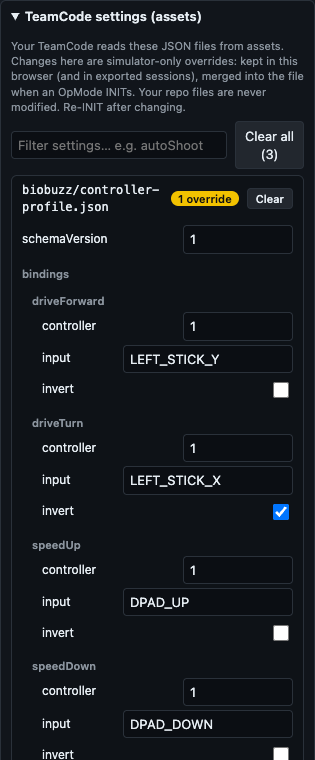
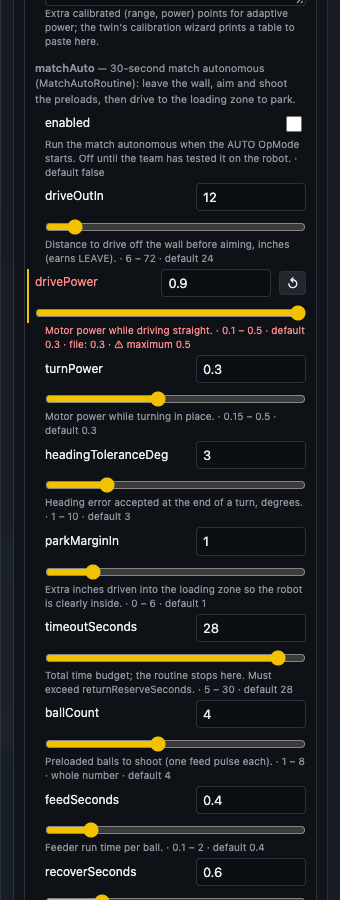
TeamCode settings: JSON Schema sidecars give help text, dropdowns, sliders, defaults and validation; search covers descriptions
- src/runtime/assetSchema.ts: foo.schema.json next to foo.json (draft-07 subset: properties/items/additionalProperties/
  patternProperties, type, enum, const, minimum/maximum/exclusive*, multipleOf, default, description, readOnly,
  deprecated); nodeAt, validate, validateAll, constraintText, searchText; 4 tests
- panel: enum -> select (current value kept if not allowed), min/max -> slider + exact box on its own line (integer
  snaps), description + constraints + file value + problem as the help line, invalid rows and a per-file badge
  (schema ✓ / N invalid / no schema), schema files hidden from the editable list, filter matches descriptions and
  enum values
- agent API: GET /api/schema (per-file schema presence and violations of the merged values) and ?file= for one
- docs: README section, runtime README, skill 4a (keep the schema in step with the parsing Java); gallery screenshot
- the team repo gets robot-profile.schema.json and controller-profile.schema.json seeded from the ranges and enums
  its parsers enforce (TrackingProfile, MatchAutoProfile, AutoProfile, ControllerProfile, RobotDashboard)

Changed region(s): [[0.0286, 0.0, 0.9714, 1.0]]

diff --git a/src/ui/panel.ts b/src/ui/panel.ts
@@ -10,6 +10,7 @@ import { START_LABELS, defaultStarts, startPose, type StartKey } from "../sim/st
 import { twinKnobs } from "../runtime/bindings";
 import type { Recorder } from "../runtime/recorder";
 import { applyOverrides, downloadText, exportChangedAssets, guessAssetFor, parsePastedSettings } from "../runtime/assetExport";
+import { constraintText, hasRange, isInteger, isNumeric, isSchemaFile, nodeAt, nullable, schemaFor, searchText, validate, validateAll } from "../runtime/assetSchema";
 import { calibrationRows, type CalForm, type SimImpactLike } from "./calibration";
 import type { FitResult } from "../ballistics/calibration";
 import { MOTOR_ROLES, SERVO_ROLES, defaultHardwareConfig, camelsHumpHardwareConfig, type DeviceKind } from "../runtime/hardwareConfig";
@@ -310,7 +311,7 @@ export class Panel {
     if (link?.connected && link.assets.length) {
       const total = Object.values(st.assetOverrides).reduce((n, o) => n + Object.keys(o).length, 0);
       const box = el("div", { class: "assets full" });
-      const filter = el("input", { type: "text", placeholder: "Filter settings… e.g. autoShoot", value: this.assetFilter }) as HTMLInputElement;
+      const filter = el("input", { type: "text", placeholder: "Filter settings by name, description or value… e.g. autoShoot, start square, LEFT", value: this.assetFilter }) as HTMLInputElement;
       filter.oninput = () => { this.assetFilter = filter.value; renderFiles(); };
       const list = el("div", {});
       const boundCount = Object.values(link.bound.overrides).reduce((n, o) => n + Object.keys(o).length, 0);
@@ -363,24 +364,27 @@ export class Panel {
         list.replaceChildren();
         const q = this.assetFilter.trim().toLowerCase();
         for (const file of link.assets) {
+          if (isSchemaFile(file.path)) continue; // sidecars describe their asset; they are not settings
           let json: unknown;
           try { json = JSON.parse(file.text); } catch { list.append(el("div", { class: "note" }, `${file.path}: not valid JSON`)); continue; }
+          const schema = schemaFor(link.assets, file.path);
           const ov = st.assetOverrides[file.path] ?? {};
           const n = Object.keys(ov).length;
           const body = el("div", { class: "abody" });
           let shown = 0;
           // walk the tree: objects become indented group headings, everything else a row
           const walk = (v: unknown, key: string, name: string, depth: number) => {
+            const node = nodeAt(schema, key);
             if (v && typeof v === "object" && !Array.isArray(v)) {
               const entries = Object.entries(v as Record<string, unknown>);
-              const head = key ? el("div", { class: "agroup", style: `padding-left:${depth * 10}px` }, name) : null;
+              const head = key ? el("div", { class: "agroup", style: `padding-left:${depth * 10}px`, title: node?.description ?? "" }, name, node?.description ? el("span", { class: "adesc" }, ` — ${node.description}`) : "") : null;
               const before = shown;
               if (head) body.append(head);
               for (const [k, x] of entries) walk(x, key ? `${key}.${k}` : k, k, key ? depth + 1 : depth);
               if (head && shown === before) head.remove(); // nothing matched the filter in this group
               return;
             }
-            if (q && !key.toLowerCase().includes(q)) return;
+            if (q && !searchText(key, node).includes(q)) return;
             shown++;
             const boundSrc = link.bound.sources[file.path]?.[key];
             if (boundSrc !== undefined) {
@@ -391,14 +395,33 @@ export class Panel {
             }
             const has = key in ov;
             const value = has ? ov[key] : v;
-            const label = el("label", { title: key }, name);
-            const row = el("div", { class: `arow${has ? " over" : ""}`, style: `padding-left:${depth * 10}px` }, label);
+            const problem = validate(node, value);
+            const label = el("label", { title: `${key}${node?.description ? "\n" + node.description : ""}` }, name);
+            const row = el("div", { class: `arow${has ? " over" : ""}${problem ? " invalid" : ""}`, style: `padding-left:${depth * 10}px` }, label);
             let control: HTMLElement;
-            if (typeof value === "boolean") {
-              const c = el("input", { type: "checkbox" }) as HTMLInputElement; c.checked = value; c.onchange = () => setOv(file.path, key, c.checked, v); control = c;
-            } else if (typeof value === "number" || (value === null && typeof v === "number")) {
-              const i = el("input", { type: "number", step: "any", value: value === null ? "" : String(value), placeholder: "null" }) as HTMLInputElement;
-              i.onchange = () => { const x = parseFloat(i.value); setOv(file.path, key, Number.isNaN(x) ? null : x, v); }; control = i;
+            const commit = (x: unknown) => setOv(file.path, key, x, v);
+            if (node?.enum && !(typeof value === "boolean")) {
+              // enumerated setting: a select listing the allowed values (plus the current one if it is not allowed)
+              const sel = el("select") as HTMLSelectElement;
+              const opts = [...node.enum];
+              if (!opts.some((o) => JSON.stringify(o) === JSON.stringify(value))) opts.unshift(value);
+              for (const o of opts) sel.append(el("option", { value: JSON.stringify(o), selected: JSON.stringify(o) === JSON.stringify(value) ? "" : undefined }, o === null ? "null" : typeof o === "string" ? o : JSON.stringify(o)));
+              sel.onchange = () => commit(JSON.parse(sel.value)); control = sel;
+            } else if (typeof value === "boolean") {
+              const c = el("input", { type: "checkbox" }) as HTMLInputElement; c.checked = value; c.onchange = () => commit(c.checked); control = c;
+            } else if (node && hasRange(node) && (typeof value === "number" || value === null) && isNumeric(node)) {
+              // ranged number: slider + exact box
+              const lo = node.minimum ?? node.exclusiveMinimum!, hi = node.maximum ?? node.exclusiveMaximum!;
+              const step = isInteger(node) ? 1 : node.multipleOf ?? Math.max(0.001, +((hi - lo) / 200).toPrecision(1));
+              const range = el("input", { type: "range", min: String(lo), max: String(hi), step: String(step), value: value === null ? String(lo) : String(value), class: "arange" }) as HTMLInputElement;
+              const box = el("input", { type: "number", step: isInteger(node) ? "1" : "any", value: value === null ? "" : String(value), placeholder: nullable(node) ? "null" : "", class: "anum" }) as HTMLInputElement;
+              range.oninput = () => { box.value = range.value; };
+              range.onchange = () => commit(isInteger(node) ? Math.round(+range.value) : +range.value);
+              box.onchange = () => { const x = parseFloat(box.value); commit(Number.isNaN(x) ? null : isInteger(node) ? Math.round(x) : x); };
+              control = el("div", { class: "aranged" }, range, box);
+            } else if (typeof value === "number" || (value === null && (typeof v === "number" || (node && isNumeric(node))))) {
+              const i = el("input", { type: "number", step: node && isInteger(node) ? "1" : "any", value: value === null ? "" : String(value), placeholder: "null" }) as HTMLInputElement;
+              i.onchange = () => { const x = parseFloat(i.value); commit(Number.isNaN(x) ? null : x); }; control = i;
             } else if (typeof value === "string" || value === null) {
               const i = el("input", { type: "text", value: value ?? "", placeholder: value === null ? "null — type a number, true/false or text" : "", class: "atext" }) as HTMLInputElement;
               i.onchange = () => { const t = i.value; let x: unknown = t; if (t === "") x = null; else if (t === "true" || t === "false") x = t === "true"; else if (/^-?\d+(\.\d+)?$/.test(t)) x = parseFloat(t); setOv(file.path, key, x, v); }; control = i;
@@ -410,7 +433,13 @@ export class Panel {
             row.append(control);
             if (has) row.append(el("button", { class: "reset", title: `Back to the file's value: ${fmt(v)}`, onclick: () => setOv(file.path, key, v, v) }, "↺"));
             body.append(row);
-            if (has) body.append(el("div", { class: "ahint", style: `padding-left:${depth * 10}px` }, `file: ${fmt(v)}`));
+            // help: description and constraints from the schema, the file's value when overridden, the problem if any
+            const hints: string[] = [];
+            if (node?.description) hints.push(node.description);
+            const c = constraintText(node); if (c) hints.push(c);
+            if (has) hints.push(`file: ${fmt(v)}`);
+            if (problem) hints.push(`⚠ ${problem}`);
+            if (hints.length) body.append(el("div", { class: `ahint${problem ? " bad" : ""}`, style: `padding-left:${depth * 10}px` }, hints.join(" · ")));
           };
           walk(json, "", "", 0);
           if (q && !shown) continue;
@@ -419,8 +448,11 @@ export class Panel {
           try { exported = applyOverrides(file, ov, link.bound.overrides[file.path]); } catch { /* shown as invalid above */ }
           const diff = exported?.changed.length ?? 0;
           const stop = (e: Event) => { e.preventDefault(); e.stopPropagation(); };
+          const merged = (() => { try { return JSON.parse(exported?.text ?? file.text); } catch { return json; } })();
+          const problems = validateAll(merged, schema);
           const det = el("details", { class: "afile", ...(openIt ? { open: "" } : {}) },
             el("summary", {}, el("span", { class: "name" }, file.path), n ? el("span", { class: "badge" }, `${n} override${n > 1 ? "s" : ""}`) : "",
+              schema ? el("span", { class: `badge ${problems.length ? "bad" : "ok"}`, title: problems.length ? problems.map((x) => `${x.key}: ${x.error}`).join("\n") : `${file.path.replace(/\.json$/, ".schema.json")} describes these settings` }, problems.length ? `${problems.length} invalid` : "schema ✓") : file.path.startsWith("web/") ? "" : el("span", { class: "badge quiet", title: `Add ${file.path.replace(/\.json$/, ".schema.json")} next to the asset (JSON Schema: description, enum, minimum/maximum, type) to get help text, dropdowns, sliders and validation here` }, "no schema"),
               el("button", { ...(diff ? {} : { disabled: "" }), title: diff ? `Download ${file.path} with these values written in (${exported!.changed.map((c) => c.key).join(", ")}); put it at TeamCode/src/main/assets/${file.path}` : "Matches the committed file", onclick: (e: Event) => { stop(e); if (exported) downloadText(file.path.split("/").pop()!, exported.text); } }, "Export"),
               el("button", { ...(diff ? {} : { disabled: "" }), title: "Copy the merged file to the clipboard", onclick: (e: Event) => { stop(e); if (exported) navigator.clipboard?.writeText(exported.text); } }, "Copy"),
               el("button", { ...(n ? {} : { disabled: "" }), onclick: (e: Event) => { stop(e); delete st.assetOverrides[file.path]; change("assets"); } }, "Clear")),

diff --git a/src/runtime/assetSchema.ts b/src/runtime/assetSchema.ts
@@ -1,0 +1,114 @@
+/** JSON Schema sidecars for TeamCode assets: `foo.schema.json` next to `foo.json` describes each setting (description,
+ * type, enum, minimum/maximum, integer, default) so the settings panel can show help, offer the right control and
+ * validate. A pragmatic subset of JSON Schema draft-07 is honoured: properties, items, additionalProperties,
+ * patternProperties, type, enum, const, minimum, maximum, exclusiveMinimum/Maximum, multipleOf, default, description,
+ * title, readOnly, deprecated, examples. Pure, unit-tested. */
+import type { AssetFile } from "./assetExport";
+
+export interface SchemaNode {
+  type?: string | string[];
+  description?: string;
+  title?: string;
+  enum?: unknown[];
+  const?: unknown;
+  minimum?: number; maximum?: number; exclusiveMinimum?: number; exclusiveMaximum?: number; multipleOf?: number;
+  default?: unknown;
+  examples?: unknown[];
+  readOnly?: boolean;
+  deprecated?: boolean;
+  properties?: Record<string, SchemaNode>;
+  items?: SchemaNode;
+  additionalProperties?: SchemaNode | boolean;
+  patternProperties?: Record<string, SchemaNode>;
+  [k: string]: unknown;
+}
+
+export const isSchemaFile = (path: string) => path.endsWith(".schema.json");
+export const schemaPathFor = (assetPath: string) => assetPath.replace(/\.json$/, ".schema.json");
+
+/** The parsed schema for an asset, if a sidecar exists and parses. */
+export function schemaFor(files: AssetFile[], assetPath: string): SchemaNode | undefined {
+  const f = files.find((x) => x.path === schemaPathFor(assetPath));
+  if (!f) return undefined;
+  try { const j = JSON.parse(f.text); return j && typeof j === "object" ? (j as SchemaNode) : undefined; } catch { return undefined; }
+}
+
+/** The schema node for a dotted key (array indices as `name.0`), following properties / items / additional / pattern. */
+export function nodeAt(schema: SchemaNode | undefined, key: string): SchemaNode | undefined {
+  let node: SchemaNode | undefined = schema;
+  if (!node) return undefined;
+  if (key === "") return node;
+  for (const part of key.split(".")) {
+    if (!node) return undefined;
+    let next: SchemaNode | undefined;
+    if (/^\d+$/.test(part) && node.items) next = node.items;
+    else if (node.properties && part in node.properties) next = node.properties[part];
+    else if (node.patternProperties) { for (const [re, sub] of Object.entries(node.patternProperties)) if (new RegExp(re).test(part)) { next = sub; break; } }
+    if (!next && node.additionalProperties && typeof node.additionalProperties === "object") next = node.additionalProperties;
+    node = next;
+  }
+  return node;
+}
+
+const typesOf = (n: SchemaNode): string[] => (n.type === undefined ? [] : Array.isArray(n.type) ? n.type : [n.type]);
+export const nullable = (n: SchemaNode) => typesOf(n).includes("null");
+export const isNumeric = (n: SchemaNode) => typesOf(n).some((t) => t === "number" || t === "integer") || (n.enum !== undefined && n.enum.every((v) => typeof v === "number" || v === null) && n.enum.some((v) => typeof v === "number"));
+export const isInteger = (n: SchemaNode) => typesOf(n).includes("integer");
+export const hasRange = (n: SchemaNode) => (n.minimum ?? n.exclusiveMinimum) !== undefined && (n.maximum ?? n.exclusiveMaximum) !== undefined;
+
+/** Error text when `value` violates the node; undefined when it fits (or there is no schema). */
+export function validate(node: SchemaNode | undefined, value: unknown): string | undefined {
+  if (!node) return undefined;
+  if (value === null) return nullable(node) || typesOf(node).length === 0 || node.enum?.includes(null) ? undefined : "null is not allowed here";
+  if (node.const !== undefined && JSON.stringify(value) !== JSON.stringify(node.const)) return `must be ${JSON.stringify(node.const)}`;
+  if (node.enum && !node.enum.some((e) => JSON.stringify(e) === JSON.stringify(value))) return `one of ${node.enum.map((e) => JSON.stringify(e)).join(", ")}`;
+  const types = typesOf(node).filter((t) => t !== "null");
+  if (types.length) {
+    const actual = Array.isArray(value) ? "array" : typeof value === "number" ? (Number.isInteger(value) ? "integer" : "number") : typeof value;
+    const ok = types.some((t) => t === actual || (t === "number" && actual === "integer"));
+    if (!ok) return `expected ${types.join(" or ")}, got ${actual}`;
+  }
+  if (typeof value === "number") {
+    if (node.minimum !== undefined && value < node.minimum) return `minimum ${node.minimum}`;
+    if (node.maximum !== undefined && value > node.maximum) return `maximum ${node.maximum}`;
+    if (node.exclusiveMinimum !== undefined && value <= node.exclusiveMinimum) return `must be above ${node.exclusiveMinimum}`;
+    if (node.exclusiveMaximum !== undefined && value >= node.exclusiveMaximum) return `must be below ${node.exclusiveMaximum}`;
+    if (node.multipleOf !== undefined && Math.abs(value / node.multipleOf - Math.round(value / node.multipleOf)) > 1e-9) return `multiple of ${node.multipleOf}`;
+  }
+  return undefined;
+}
+
+/** One-line constraint summary for the help text, e.g. "0.1 – 0.5 · default 0.3" or "one of LEFT, RIGHT". */
+export function constraintText(node: SchemaNode | undefined): string {
+  if (!node) return "";
+  const parts: string[] = [];
+  if (node.enum) parts.push(`one of ${node.enum.map((e) => (typeof e === "string" ? e : JSON.stringify(e))).join(", ")}`);
+  else {
+    const lo = node.minimum ?? node.exclusiveMinimum, hi = node.maximum ?? node.exclusiveMaximum;
+    if (lo !== undefined || hi !== undefined) parts.push(`${lo !== undefined ? (node.minimum === undefined ? ">" : "") + lo : "…"} – ${hi !== undefined ? (node.maximum === undefined ? "<" : "") + hi : "…"}`);
+    if (isInteger(node)) parts.push("whole number");
+  }
+  if (node.default !== undefined) parts.push(`default ${typeof node.default === "string" ? node.default : JSON.stringify(node.default)}`);
+  if (nullable(node)) parts.push("null allowed");
+  if (node.readOnly) parts.push("read-only");
+  if (node.deprecated) parts.push("deprecated");
+  return parts.join(" · ");
+}
+
+/** Text the settings filter should match for a key: name, description, title, enum values. */
+export function searchText(key: string, node: SchemaNode | undefined): string {
+  return [key, node?.title ?? "", node?.description ?? "", ...(node?.enum ?? []).map((e) => String(e))].join(" ").toLowerCase();
+}
+
+/** Every leaf key in an asset that violates its schema: for a file-level badge and for agents. */
+export function validateAll(json: unknown, schema: SchemaNode | undefined): { key: string; error: string }[] {
+  const out: { key: string; error: string }[] = [];
+  if (!schema) return out;
+  const walk = (v: unknown, key: string) => {
+    if (v && typeof v === "object" && !Array.isArray(v)) { for (const [k, x] of Object.entries(v as Record<string, unknown>)) walk(x, key ? `${key}.${k}` : k); return; }
+    const e = validate(nodeAt(schema, key), v);
+    if (e) out.push({ key, error: e });
+  };
+  walk(json, "");
+  return out;
+}

diff --git a/test/assetSchema.test.ts b/test/assetSchema.test.ts
@@ -1,0 +1,50 @@
+import { describe, expect, it } from "vitest";
+import { constraintText, nodeAt, schemaFor, searchText, validate, validateAll } from "../src/runtime/assetSchema";
+
+const schema = {
+  properties: {
+    matchAuto: { description: "Autonomous routine", properties: {
+      startPosition: { type: "string", enum: ["LOADING_ZONE", "FAR_SIDE"], default: "LOADING_ZONE", description: "Which start square" },
+      drivePower: { type: "number", minimum: 0.1, maximum: 0.5, default: 0.3 },
+      ballCount: { type: "integer", minimum: 1, maximum: 8 },
+      searchDirection: { enum: [0, 1, -1] },
+    } },
+    shotRangeIn: { type: ["number", "null"], minimum: 6, maximum: 144 },
+    powerTable: { type: "array", items: { properties: { rangeIn: { type: "number", minimum: 6 } } } },
+    bindings: { additionalProperties: { properties: { input: { enum: ["A", "B"] }, controller: { enum: [1, 2] } } } },
+  },
+};
+const files = [{ path: "x/robot-profile.json", text: "{}" }, { path: "x/robot-profile.schema.json", text: JSON.stringify(schema) }];
+
+describe("asset schema", () => {
+  it("finds the sidecar and walks properties, items and additionalProperties", () => {
+    expect(schemaFor(files, "x/robot-profile.json")).toBeTruthy();
+    expect(schemaFor(files, "x/other.json")).toBeUndefined();
+    expect(nodeAt(schema, "matchAuto.startPosition")?.enum).toEqual(["LOADING_ZONE", "FAR_SIDE"]);
+    expect(nodeAt(schema, "powerTable.3.rangeIn")?.minimum).toBe(6);
+    expect(nodeAt(schema, "bindings.driveForward.input")?.enum).toEqual(["A", "B"]);
+    expect(nodeAt(schema, "nope.key")).toBeUndefined();
+  });
+  it("validates enums, ranges, integers and nulls", () => {
+    const n = (k: string) => nodeAt(schema, k);
+    expect(validate(n("matchAuto.startPosition"), "FAR_SIDE")).toBeUndefined();
+    expect(validate(n("matchAuto.startPosition"), "LEFT")).toMatch(/one of/);
+    expect(validate(n("matchAuto.drivePower"), 0.6)).toBe("maximum 0.5");
+    expect(validate(n("matchAuto.drivePower"), "0.3")).toMatch(/expected number/);
+    expect(validate(n("matchAuto.ballCount"), 2.5)).toMatch(/expected integer/);
+    expect(validate(n("matchAuto.searchDirection"), -1)).toBeUndefined();
+    expect(validate(n("shotRangeIn"), null)).toBeUndefined();
+    expect(validate(n("matchAuto.drivePower"), null)).toMatch(/null/);
+    expect(validate(undefined, "anything")).toBeUndefined();
+  });
+  it("summarises constraints and feeds the search", () => {
+    expect(constraintText(nodeAt(schema, "matchAuto.drivePower"))).toBe("0.1 – 0.5 · default 0.3");
+    expect(constraintText(nodeAt(schema, "matchAuto.startPosition"))).toBe("one of LOADING_ZONE, FAR_SIDE · default LOADING_ZONE");
+    expect(constraintText(nodeAt(schema, "shotRangeIn"))).toBe("6 – 144 · null allowed");
+    expect(searchText("matchAuto.startPosition", nodeAt(schema, "matchAuto.startPosition"))).toContain("which start square");
+  });
+  it("lists every violation in a file", () => {
+    const bad = validateAll({ matchAuto: { startPosition: "MIDDLE", drivePower: 0.3, ballCount: 9 }, shotRangeIn: null }, schema);
+    expect(bad.map((b) => b.key)).toEqual(["matchAuto.startPosition", "matchAuto.ballCount"]);
+  });
+});

diff --git a/src/main.ts b/src/main.ts
@@ -31,6 +31,8 @@ import { Match, type Agent } from "./sim/match";
 import { RuntimeLink, type SensorPacket } from "./runtime/link";
 import { createActuatorModel, stepActuators, motorSensors, feederFires } from "./runtime/actuators";
 import { parseCalLines } from "./ballistics/calibration";
+import { isSchemaFile, schemaFor, schemaPathFor, validateAll } from "./runtime/assetSchema";
+import { applyOverrides } from "./runtime/assetExport";
 import { Scoreboard, LOADING_ZONE, ballInGarden, describeScore, inZone, type RobotState } from "./sim/scoring";
 import { inferDevice, deviceHints } from "./runtime/hardwareConfig";
 import { buildDetections } from "./runtime/apriltags";
@@ -329,6 +331,17 @@ link.onAgent = async (action, params) => {
       scripted: scripted.map((r, i) => ({ name: r.name, alliance: scriptedAgents[i].alliance, xIn: +(r.pose.x / IN).toFixed(1), zIn: +(r.pose.z / IN).toFixed(1) })),
     } };
     case "knobs": return { result: twinKnobs(state) };
+    case "schema": { // the JSON Schema sidecar of an asset (descriptions, enums, ranges) and the current violations
+      const file = String(params.file ?? "");
+      const files = link.assets.filter((a) => !isSchemaFile(a.path) && a.path.endsWith(".json"));
+      const mergedJson = (a: typeof files[number]) => { try { return JSON.parse(applyOverrides(a, state.assetOverrides[a.path], link.bound.overrides[a.path]).text); } catch { return JSON.parse(a.text); } };
+      if (!file) return { result: { files: files.map((a) => ({ path: a.path, schema: !!schemaFor(link.assets, a.path), invalid: validateAll(mergedJson(a), schemaFor(link.assets, a.path)) })) } };
+      const asset = files.find((a) => a.path === file || a.path.endsWith("/" + file) || a.path.endsWith(file));
+      if (!asset) throw new Error(`unknown asset ${file}; known: ${files.map((a) => a.path).join(", ")}`);
+      const schema = schemaFor(link.assets, asset.path);
+      const merged = applyOverrides(asset, state.assetOverrides[asset.path], link.bound.overrides[asset.path]);
+      return { result: { path: asset.path, schemaPath: schemaPathFor(asset.path), schema: schema ?? null, invalid: validateAll(JSON.parse(merged.text), schema) } };
+    }
     case "run": return { result: { runs: recorder.runs.map((r) => ({ ...r, durationS: +(((r.end ?? Date.now()) - r.start) / 1000).toFixed(1), samples: recorder.samples.filter((x) => x.t >= r.start && x.t <= (r.end ?? Infinity)).length })), latest: recorder.latestRun(), cursor: recorder.cursor, recordedFrom: recorder.start, recordedTo: recorder.end, sampleMs: 100 } };
     case "replay": {
       // GET: the sample at a moment. POST with the same parameters scrubs the human's view there (live sim paused).

diff --git a/src/ui/style.css b/src/ui/style.css
@@ -133,3 +133,16 @@ html, body { margin: 0; height: 100%; background: var(--bg); color: var(--fg); f
 #panel textarea.full { grid-column: 1 / -1; font-size: 10.5px; }
 #panel .tl-scope button.on { background: var(--accent); color: #111; border-color: var(--accent); font-weight: 600; }
 #panel .tl-buttons button { padding: 3px 6px; font-size: 11px; }
+/* schema-aware settings */
+#panel .assets .arow.invalid label { color: #ff8a8a; }
+#panel .assets .ahint.bad { color: #ff8a8a; }
+#panel .assets .adesc { font-weight: 400; color: var(--muted); font-size: 10.5px; }
+/* ranged setting: label + exact box on the first line, the slider full width below, so names are not truncated */
+#panel .assets .arow:has(.aranged) { flex-wrap: wrap; }
+#panel .assets .aranged { display: contents; }
+#panel .assets .aranged .anum { flex: 0 0 110px; width: 110px; order: 1; }
+#panel .assets .arow .reset { order: 2; }
+#panel .assets .aranged .arange { flex: 1 1 100%; order: 10; margin: 0 0 2px; accent-color: var(--accent); }
+#panel .assets .badge.ok { background: #1f7a4a; color: #fff; }
+#panel .assets .badge.bad { background: #a33; color: #fff; }
+#panel .assets .badge.quiet { background: transparent; border: 1px dashed #3a434e; color: var(--muted); }

diff --git a/runtime/README.md b/runtime/README.md
@@ -53,6 +53,8 @@ Press **Tab** to switch the keyboard between gamepad1 and gamepad2 (the HUD show
 
 `pnpm sim` scans your sources first. Files that import Android-only or robot-only packages (`android.graphics`, `android.database`, `org.opencv`, NanoHTTPD, `com.qualcomm.ftccommon`, `org.firstinspires.ftc.robotcore.internal`, the Panels camera-stream and field plugins) are skipped automatically and listed. If an OpMode needs one of them, give it a **sim version**: create `TeamCode/src/sim/java/<same package path>/<SameName>.java` with the same public API; the sim build uses that file in place of the main one and your production build never sees it. The Camels Hump repo does this for `dashboard/RobotDashboard.java` and `dashboard/DashboardCamera.java`.
 
+**Describe your settings (schema sidecars):** put `foo.schema.json` next to `foo.json` in the assets folder, JSON Schema style, and the panel turns into a proper settings editor: `description` becomes help text under the row (and is searchable), `enum` becomes a dropdown, `minimum`/`maximum` become a slider with an exact box (`"type": "integer"` snaps), `default` is shown, values outside the schema are flagged red with the reason and the file badge counts them. Nested objects use `properties`; arrays use `items`; maps of similar entries (`bindings.*`) use `additionalProperties`. Agents read the same schema through `GET /api/schema?file=robot-profile.json` and are asked to keep it in step with the Java that parses the setting (see the skill). The Android app ignores the extra file.
+
 **Sim-only asset overrides:** the browser panel *TeamCode settings (assets)* lists every JSON file in your `assets` folder with its values as checkboxes and fields. Anything you change there is stored in the browser (and in the exported session), sent to the host and merged into the file the next time an OpMode INITs; your repo files are never modified, and *Clear overrides* returns to them. Use it for settings that are safety-gated on the real robot (verified servo modes, auto-shoot enabled, shot ranges). File-based alternative: a `something.sim.json` next to `something.json` is served instead of the original.
 
 **FTC Panels.** The host runs the real Panels library (`com.bylazar:fullpanels` 1.0.13's core and plugins, unpacked from its Maven AARs by the `panels` Gradle module) on the usual ports: web UI on 8001, socket on 8002. It gets the same contract the robot controller gives it: a `Context` whose assets are your TeamCode assets plus Panels' own web UI, an `FtcEventLoop` whose `OpModeManagerImpl` is the host's runner (so Panels' OpMode control starts and stops OpModes in the twin, and INIT/START/STOP notifications reach every plugin), `RegisteredOpModes` from the scanner, and `android.graphics.Bitmap`/`Base64` stand-ins so the camera-stream plugin compiles and runs. No camera frames are produced: AprilTag detections are synthetic (geometry, not pixels), so a camera-stream widget shows nothing. Two Panels classes are shadowed by same-named classes in `runtime/panels/src`: the APK dex class scanner (replaced by a classpath scanner) and the robot-controller screen text. `pnpm sim --no-panels` (or `-PsimPanels=false`) runs without it, and a host that finds 8001/8002 already taken by another host skips Panels on its own; `pnpm twin-test` always runs without it. `SIM_DEBUG=true pnpm sim` prints Panels' own logs and the lifecycle notifications.

diff --git a/README.md b/README.md
@@ -115,6 +115,10 @@ Settings an agent applies show up in the panel immediately (and in the timeline 
 
 Telemetry changes faster than anyone can read, so the twin records the last ~10 minutes at 10 Hz: telemetry, runtime status, pose, match state, held gamepad buttons and sticks, shots, score, the other robots, every ball and the hive tilts, plus events (status changes, Home/button presses, shots, host console lines from your OpMode and `RobotLog`, exceptions with their stack traces, fouls). The **Timeline & logs** section has a slider that **replays the run on the field**: drag it back and the robots, balls and hives move to that moment, the telemetry box shows what the OpMode printed then (marked ⏪) and the HUD's Match row says REPLAY; the live simulation pauses while you look and resumes when you press *Live*. Step buttons move 0.1 s or 1 s at a time, *Play* replays at real speed, *Run start* jumps to the latest INIT, and the slider covers the latest INIT→STOP run by default (*Everything* widens it to the whole recording). Click an event to jump to it. This works standalone (no host needed); in server mode every finished run is also saved under `runtime/runs/` and agents can scrub your view or fetch any moment through the agent API (`/api/run`, `/api/replay`, `/api/runs`). **Copy last 30 s / 2 min** puts a Markdown snapshot on the clipboard: context (OpMode, presets, hardware map, asset overrides and bound values, camera mounts, start positions), the event list, and the telemetry at every change in the window. Paste it to a teammate or an agent. *Download full log* saves everything as JSON.
 
+## TeamCode settings with help, dropdowns, sliders and validation
+
+The TeamCode settings panel edits your JSON assets as overrides, but a bare JSON value does not say what it means, what range is sane or which enum strings the code accepts. Put a **JSON Schema sidecar** next to each asset (`robot-profile.schema.json` beside `robot-profile.json`, shipped by the host like any asset) and every setting gets a description under its row, enums become dropdowns, `minimum`/`maximum` become a slider with an exact box, integers snap, defaults are shown, and anything outside the schema is flagged red with the reason (the file badge counts invalid values). The filter searches names, descriptions and enum values, so "start square" finds `matchAuto.startPosition`. Agents get the same through `GET /api/schema`, and the skill asks them to update the schema whenever they add or change a setting in the Java that parses it. The Camels Hump repo now carries schemas for both profile files, seeded from the ranges and enums its parsers enforce.
+
 ## Twin bindings: one source of truth for robot measurements
 
 Your OpModes carry settings that describe the physical robot (wheel diameter, ticks per revolution, track width, camera mount, alliance, shooter direction). The twin models the same facts. `TeamCode/twin-bindings.json` in the team repo says which asset key is derived from which twin knob; the twin evaluates it whenever a knob changes and feeds the results to your code at INIT as asset overrides, marked ⇐ in the TeamCode settings panel. Measure once, in the twin, and the sim and your code can never disagree.

diff --git a/skills/biobuzz-twin/SKILL.md b/skills/biobuzz-twin/SKILL.md
@@ -161,6 +161,22 @@ shooter direction, alliance, start pose. Rules:
    file's key order and indentation so only the changed values show in the diff. From a script: `applyOverrides` /
    `exportChangedAssets` in `src/runtime/assetExport.ts` with `link.assets`, `state.assetOverrides`, `link.bound.overrides`.
 
+## 4a. Describe every setting in the asset's schema sidecar
+
+Each JSON asset has (or should get) a JSON Schema sidecar next to it: `robot-profile.schema.json` for
+`robot-profile.json`. The twin's settings panel renders it (help text, dropdowns for `enum`, sliders for
+`minimum`/`maximum`, red flags for violations) and `GET /api/schema?file=robot-profile.json` returns it with the
+current violations. Rules:
+
+1. When you add, rename or re-range a setting in the Java that parses it (`number(a,"key",fallback,min,max)`,
+   `valueOf(...)` enums, `validate()` ranges), update the sidecar in the same change: `description` (what it does, units,
+   sign convention, what happens at the extremes), `type`, `enum`, `minimum`/`maximum`, `default`, `"type": ["number","null"]`
+   when null is meaningful. Keep the schema's ranges identical to the Java's; the schema is documentation of the code,
+   not a second source of truth.
+2. Nested objects use `properties`; arrays use `items`; maps of similar entries use `additionalProperties`.
+3. Before INIT, run `curl -s "$A/api/schema?file=robot-profile.json" | jq .invalid` (or read the file badge) so a
+   value the code will reject at startup is caught here first.
+
 ## 4b. Shooter calibration: make the twin shoot like the robot
 
 The twin's launcher knobs (`launcher.efficiency`, `launcher.elevationDeg`, `launcher.exitHeightIn`, backspin, the
